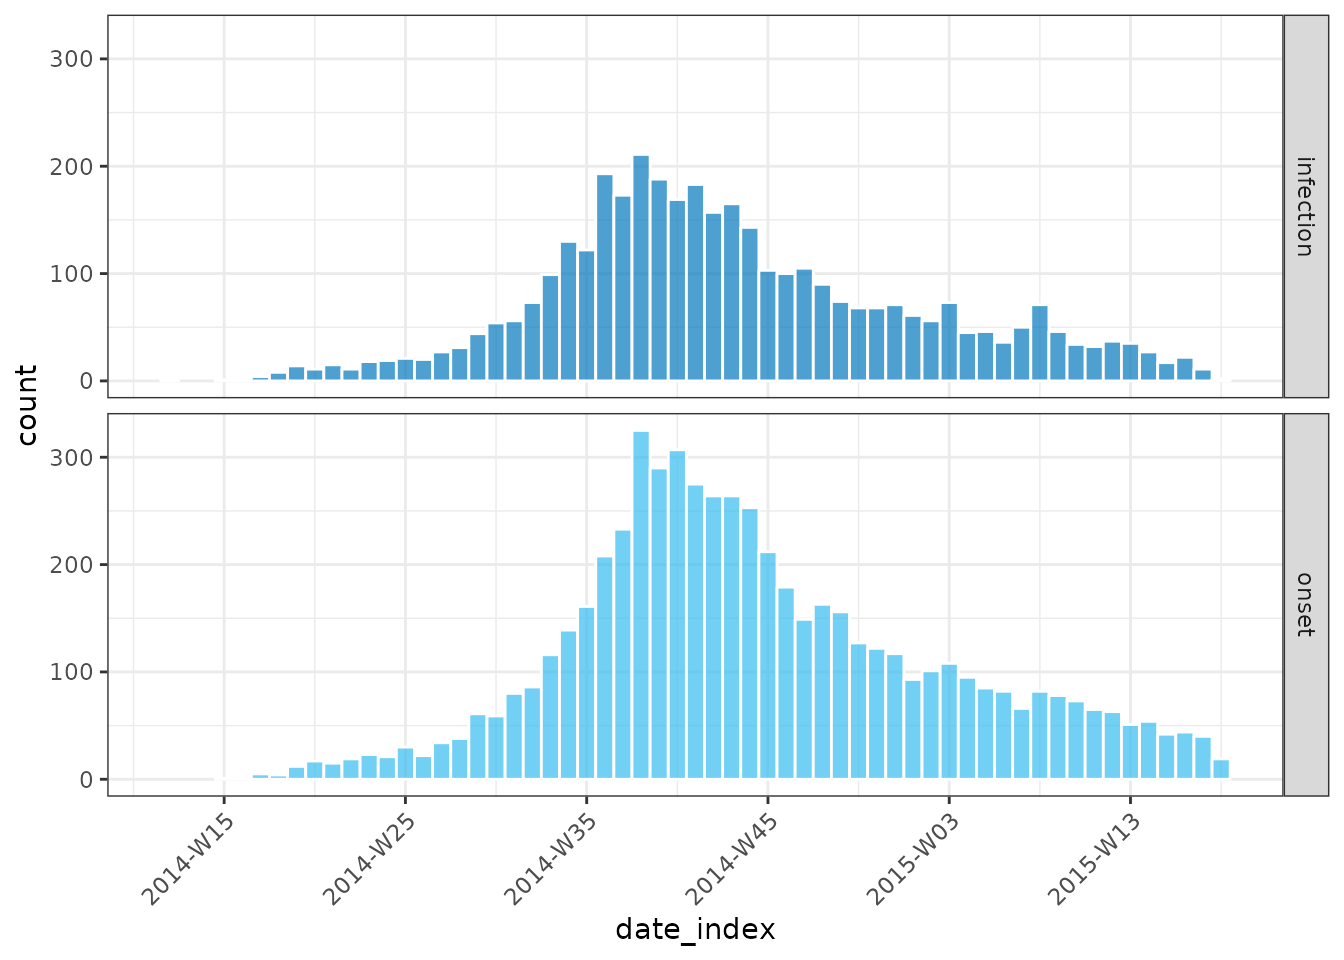
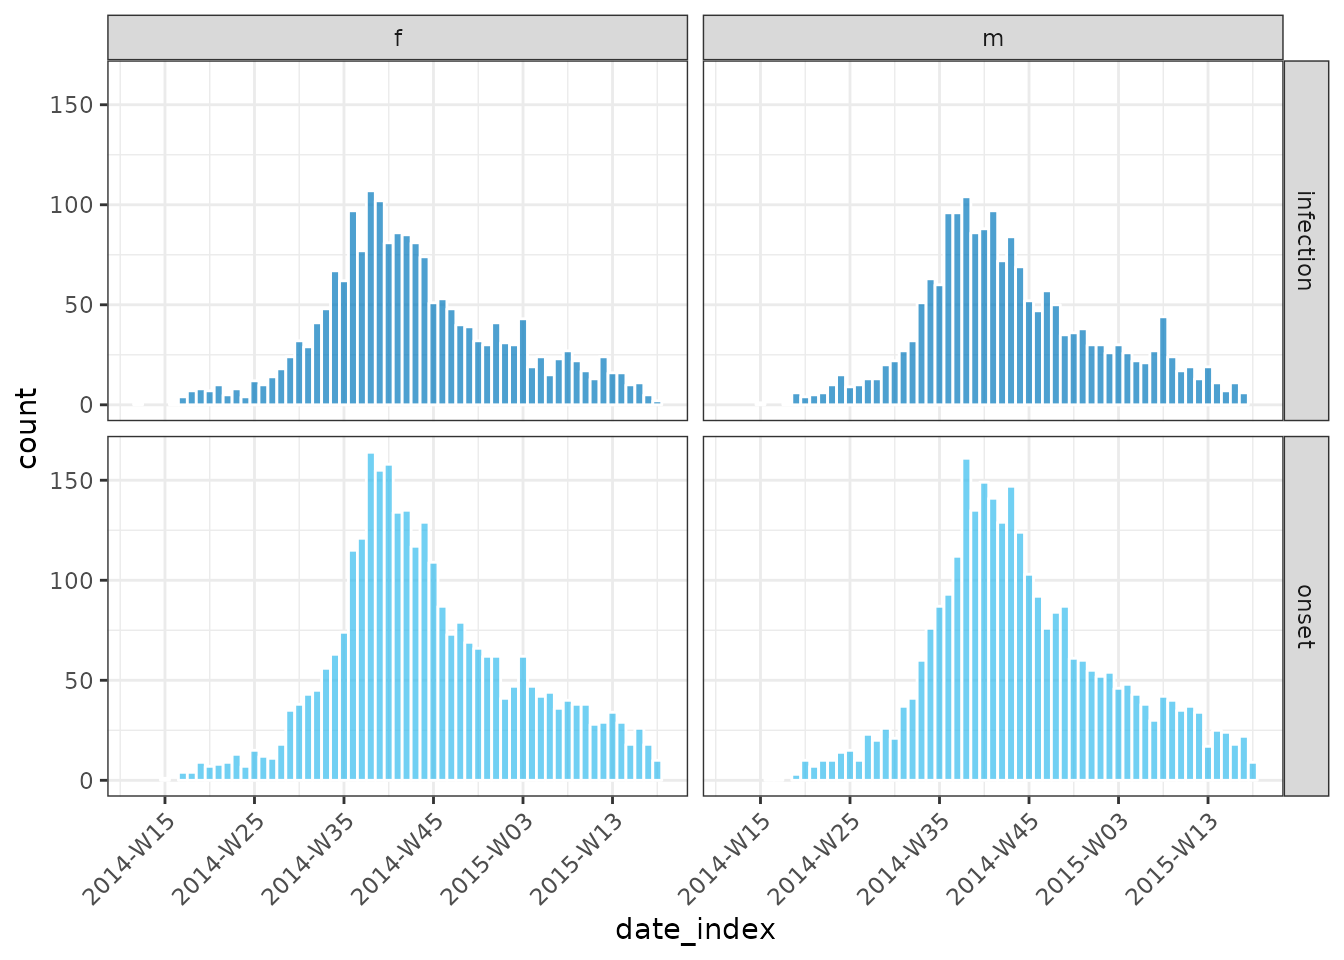
Deploying to gh-pages from @ reconverse/incidence2@2568295c799d77bcdb0997cc8e48a23c3b708be7 🚀

diff --git a/dev/articles/incidence2.html b/dev/articles/incidence2.html
@@ -289,22 +289,23 @@ resultant plot</p>
 <span>        onset <span class="op">=</span> <span class="st">"date_of_onset"</span>,</span>
 <span>        infection <span class="op">=</span> <span class="st">"date_of_infection"</span></span>
 <span>    <span class="op">)</span>, </span>
-<span>    interval <span class="op">=</span> <span class="st">"isoweek"</span></span>
+<span>    interval <span class="op">=</span> <span class="st">"isoweek"</span>,</span>
+<span>    groups <span class="op">=</span> <span class="st">"gender"</span></span>
 <span><span class="op">)</span><span class="op">)</span></span>
-<span><span class="co">#&gt; <span style="color: #949494;"># incidence: 113 x 3</span></span></span>
-<span><span class="co">#&gt;    date_index count_variable count</span></span>
-<span><span class="co">#&gt;  <span style="color: #BCBCBC;">*</span> <span style="color: #949494; font-style: italic;">&lt;isowk&gt;</span>    <span style="color: #949494; font-style: italic;">&lt;chr&gt;</span>          <span style="color: #949494; font-style: italic;">&lt;int&gt;</span></span></span>
-<span><span class="co">#&gt; <span style="color: #BCBCBC;"> 1</span> 2014-W12   infection          1</span></span>
-<span><span class="co">#&gt; <span style="color: #BCBCBC;"> 2</span> 2014-W15   infection          1</span></span>
-<span><span class="co">#&gt; <span style="color: #BCBCBC;"> 3</span> 2014-W15   onset              1</span></span>
-<span><span class="co">#&gt; <span style="color: #BCBCBC;"> 4</span> 2014-W16   infection          1</span></span>
-<span><span class="co">#&gt; <span style="color: #BCBCBC;"> 5</span> 2014-W16   onset              1</span></span>
-<span><span class="co">#&gt; <span style="color: #BCBCBC;"> 6</span> 2014-W17   infection          4</span></span>
-<span><span class="co">#&gt; <span style="color: #BCBCBC;"> 7</span> 2014-W17   onset              5</span></span>
-<span><span class="co">#&gt; <span style="color: #BCBCBC;"> 8</span> 2014-W18   infection          8</span></span>
-<span><span class="co">#&gt; <span style="color: #BCBCBC;"> 9</span> 2014-W18   onset              4</span></span>
-<span><span class="co">#&gt; <span style="color: #BCBCBC;">10</span> 2014-W19   infection         14</span></span>
-<span><span class="co">#&gt; <span style="color: #949494;"># … with 103 more rows</span></span></span>
+<span><span class="co">#&gt; <span style="color: #949494;"># incidence: 218 x 4</span></span></span>
+<span><span class="co">#&gt;    date_index gender count_variable count</span></span>
+<span><span class="co">#&gt;  <span style="color: #BCBCBC;">*</span> <span style="color: #949494; font-style: italic;">&lt;isowk&gt;</span>    <span style="color: #949494; font-style: italic;">&lt;fct&gt;</span>  <span style="color: #949494; font-style: italic;">&lt;chr&gt;</span>          <span style="color: #949494; font-style: italic;">&lt;int&gt;</span></span></span>
+<span><span class="co">#&gt; <span style="color: #BCBCBC;"> 1</span> 2014-W12   f      infection          1</span></span>
+<span><span class="co">#&gt; <span style="color: #BCBCBC;"> 2</span> 2014-W15   f      onset              1</span></span>
+<span><span class="co">#&gt; <span style="color: #BCBCBC;"> 3</span> 2014-W15   m      infection          1</span></span>
+<span><span class="co">#&gt; <span style="color: #BCBCBC;"> 4</span> 2014-W16   f      infection          1</span></span>
+<span><span class="co">#&gt; <span style="color: #BCBCBC;"> 5</span> 2014-W16   m      onset              1</span></span>
+<span><span class="co">#&gt; <span style="color: #BCBCBC;"> 6</span> 2014-W17   f      infection          4</span></span>
+<span><span class="co">#&gt; <span style="color: #BCBCBC;"> 7</span> 2014-W17   f      onset              4</span></span>
+<span><span class="co">#&gt; <span style="color: #BCBCBC;"> 8</span> 2014-W17   m      onset              1</span></span>
+<span><span class="co">#&gt; <span style="color: #BCBCBC;"> 9</span> 2014-W18   f      infection          7</span></span>
+<span><span class="co">#&gt; <span style="color: #BCBCBC;">10</span> 2014-W18   f      onset              4</span></span>
+<span><span class="co">#&gt; <span style="color: #949494;"># … with 208 more rows</span></span></span>
 <span></span>
 <span><span class="fu"><a href="https://rdrr.io/r/graphics/plot.default.html" class="external-link">plot</a></span><span class="op">(</span><span class="va">grouped_inci</span>, angle <span class="op">=</span> <span class="fl">45</span>, border_colour <span class="op">=</span> <span class="st">"white"</span><span class="op">)</span></span></code></pre></div>
 <p><img src="incidence2_files/figure-html/unnamed-chunk-4-1.png" width="672" style="display: block; margin: auto;"></p>
